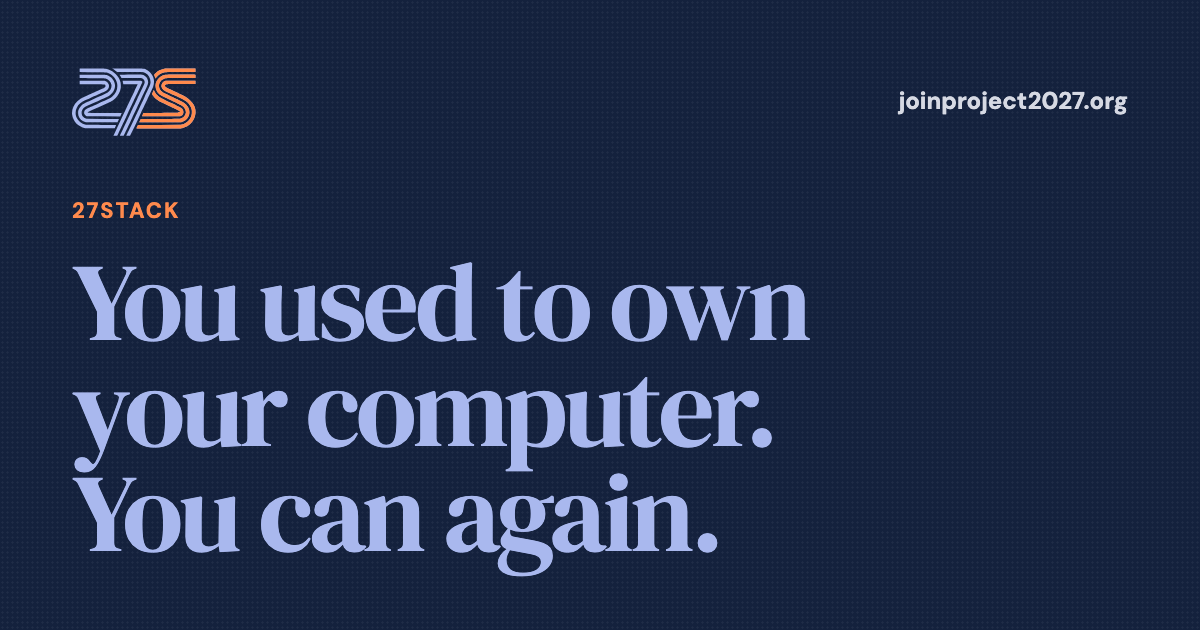
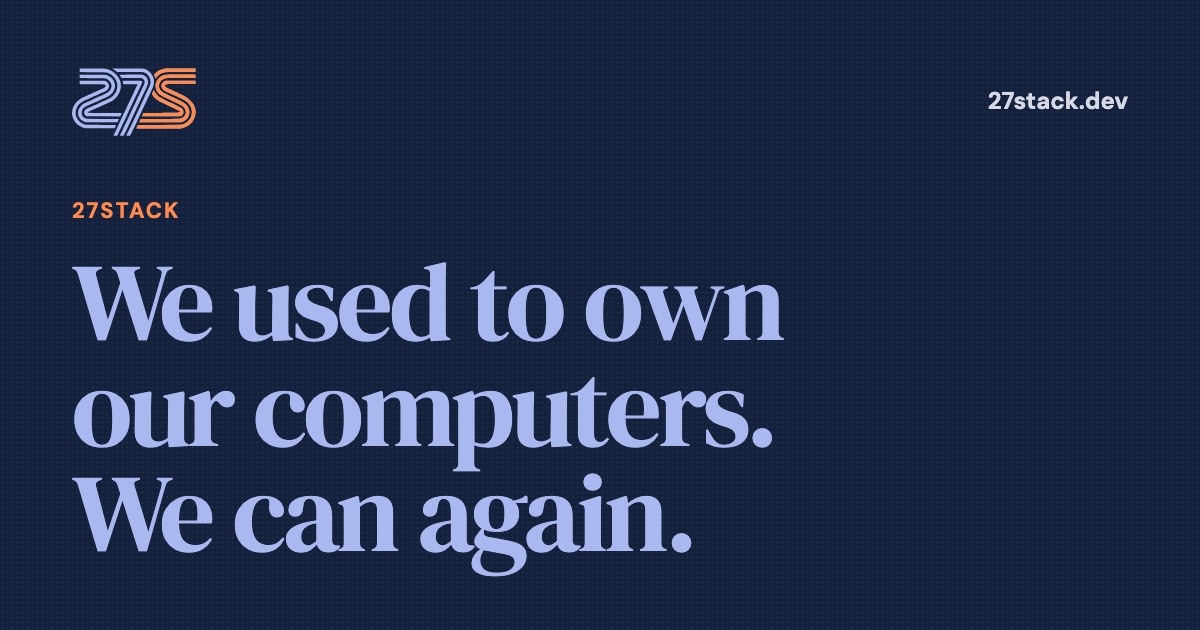
Update copy in hero

Changed region(s): [[0.0617, 0.6032, 0.6475, 0.9349], [0.0617, 0.4222, 0.6783, 0.5429], [0.74, 0.1206, 0.9558, 0.181]]

diff --git a/app/routes/home.tsx b/app/routes/home.tsx
@@ -8,7 +8,7 @@ import "./home.css";
 
 export const meta: Route.MetaFunction = () =>
   pageMeta({
-    description: `Computing keeps swinging between someone else's machine and your own. ${SITE_NAME} is the swing back: an open foundation that makes a cloud something you own, with services you install like apps.`,
+    description: `Cities, schools, agencies and local businesses rent the software they run on, and pay for every change. ${SITE_NAME} is an open foundation for a cloud your organization owns: public infrastructure for anyone who wants their tools back.`,
     path: "/",
   });
 
@@ -73,18 +73,24 @@ export default function Home() {
       <SiteHeader />
       <main>
         <div className="hero">
-          <p className="eyebrow">A short changelog for computing</p>
+          <p className="eyebrow">An open cloud for public infrastructure</p>
           <h1>
-            You used to own
+            We used to own
             <br />
-            your computer.
+            our computers.
             <br />
-            You can again.
+            We can again.
           </h1>
-          <p className="hero-lead">
-            Computing keeps swinging between someone else's machine and your own. {SITE_NAME} is the swing back: an
-            open foundation that makes a cloud something you own, with services you install like apps.
-          </p>
+          <div className="hero-lead">
+            <p>
+              Computing keeps swinging between machines we rent and machines we own. Right now our cities, schools,
+              agencies and local businesses rent the software they run on, and pay for every change.
+            </p>
+            <p>
+              <strong>{SITE_NAME}</strong> is the swing back: an open foundation for a cloud your organization owns.
+              Public infrastructure for anyone who wants their tools back.
+            </p>
+          </div>
           {/* The chart keeps a readable width and scrolls sideways on a phone. */}
           <div className="swing">
             <div>

diff --git a/app/routes/home.test.tsx b/app/routes/home.test.tsx
@@ -14,9 +14,17 @@ test("the hero shows the headline, the swing chart, and ways into the plan and t
   const main = screen.getByRole("main");
   const hero = screen.container.querySelector<HTMLElement>(".hero")!;
 
-  expect(hero.textContent).toContain("A short changelog for computing");
+  expect(hero.querySelector(".eyebrow")?.textContent).toBe("An open cloud for public infrastructure");
+  // The lead says who has the problem, then what 27stack is and who it's for, in two paragraphs.
+  const [problem, answer, ...rest] = hero.querySelectorAll(".hero-lead > p");
+  expect(rest).toHaveLength(0);
+  expect(problem.textContent).toMatch(/our cities, schools,\s+agencies and local businesses rent the software/);
+  expect(answer.querySelector("strong")?.textContent).toBe("27stack");
+  expect(answer.textContent).toMatch(
+    /^27stack is the swing back: an open foundation for a cloud your organization owns\.\s+Public\s+infrastructure for anyone who wants their tools back\.$/,
+  );
   await expect
-    .element(main.getByRole("heading", { level: 1, name: /You used to own\s*your computer\.\s*You can again\./ }))
+    .element(main.getByRole("heading", { level: 1, name: /We used to own\s*our computers\.\s*We can again\./ }))
     .toBeInTheDocument();
   await expect.element(main.getByRole("img", { name: /A line swinging between theirs and yours/ })).toBeInTheDocument();
   expect(hero.querySelector("a.hero-plan")?.textContent).toBe("Read the plan");

diff --git a/app/routes/home.css b/app/routes/home.css
@@ -35,7 +35,12 @@
   display: flex; flex-direction: column; gap: 30px;
 }
 .hero h1 { font-size: clamp(46px, 7.6vw, 104px); line-height: 0.96; letter-spacing: -0.03em; color: var(--cobalt); }
-.hero-lead { max-width: 700px; font-size: 22px; line-height: 1.45; color: var(--text); text-wrap: pretty; }
+.hero-lead {
+  display: flex; flex-direction: column; gap: 16px;
+  max-width: 700px; font-size: 22px; line-height: 1.45; color: var(--text); text-wrap: pretty;
+}
+/* The name, in the headline's color. */
+.hero-lead strong { font-weight: 700; color: var(--cobalt); }
 .swing { overflow-x: auto; }
 .swing > div { min-width: 760px; }
 .hero-actions { align-self: flex-start; display: flex; flex-wrap: wrap; align-items: center; gap: 14px 26px; }

diff --git a/app/lib/meta.ts b/app/lib/meta.ts
@@ -9,7 +9,7 @@ interface PageMeta {
 }
 
 /** The preview card every page shares for now: the avatar and the slogan (scripts/og-images.ts). */
-const CARD = { path: "/og/slogan.png", alt: `${SITE_NAME}: You used to own your computer. You can again.` };
+const CARD = { path: "/og/slogan.png", alt: `${SITE_NAME}: We used to own our computers. We can again.` };
 
 /** The <title>, description and social preview tags for a page. */
 export function pageMeta({ title: pageTitle, description, path }: PageMeta) {

diff --git a/scripts/og-images.ts b/scripts/og-images.ts
@@ -24,7 +24,7 @@ interface Card {
 
 const cards: Card[] = [
   // The home page's headline, styled as the hero styles it.
-  { slug: "slogan", headline: `You used to own<br>your computer.<br>You can again.` },
+  { slug: "slogan", headline: `We used to own<br>our computers.<br>We can again.` },
 ];
 
 /** The logo drawn for the navy ground, as it is. */
